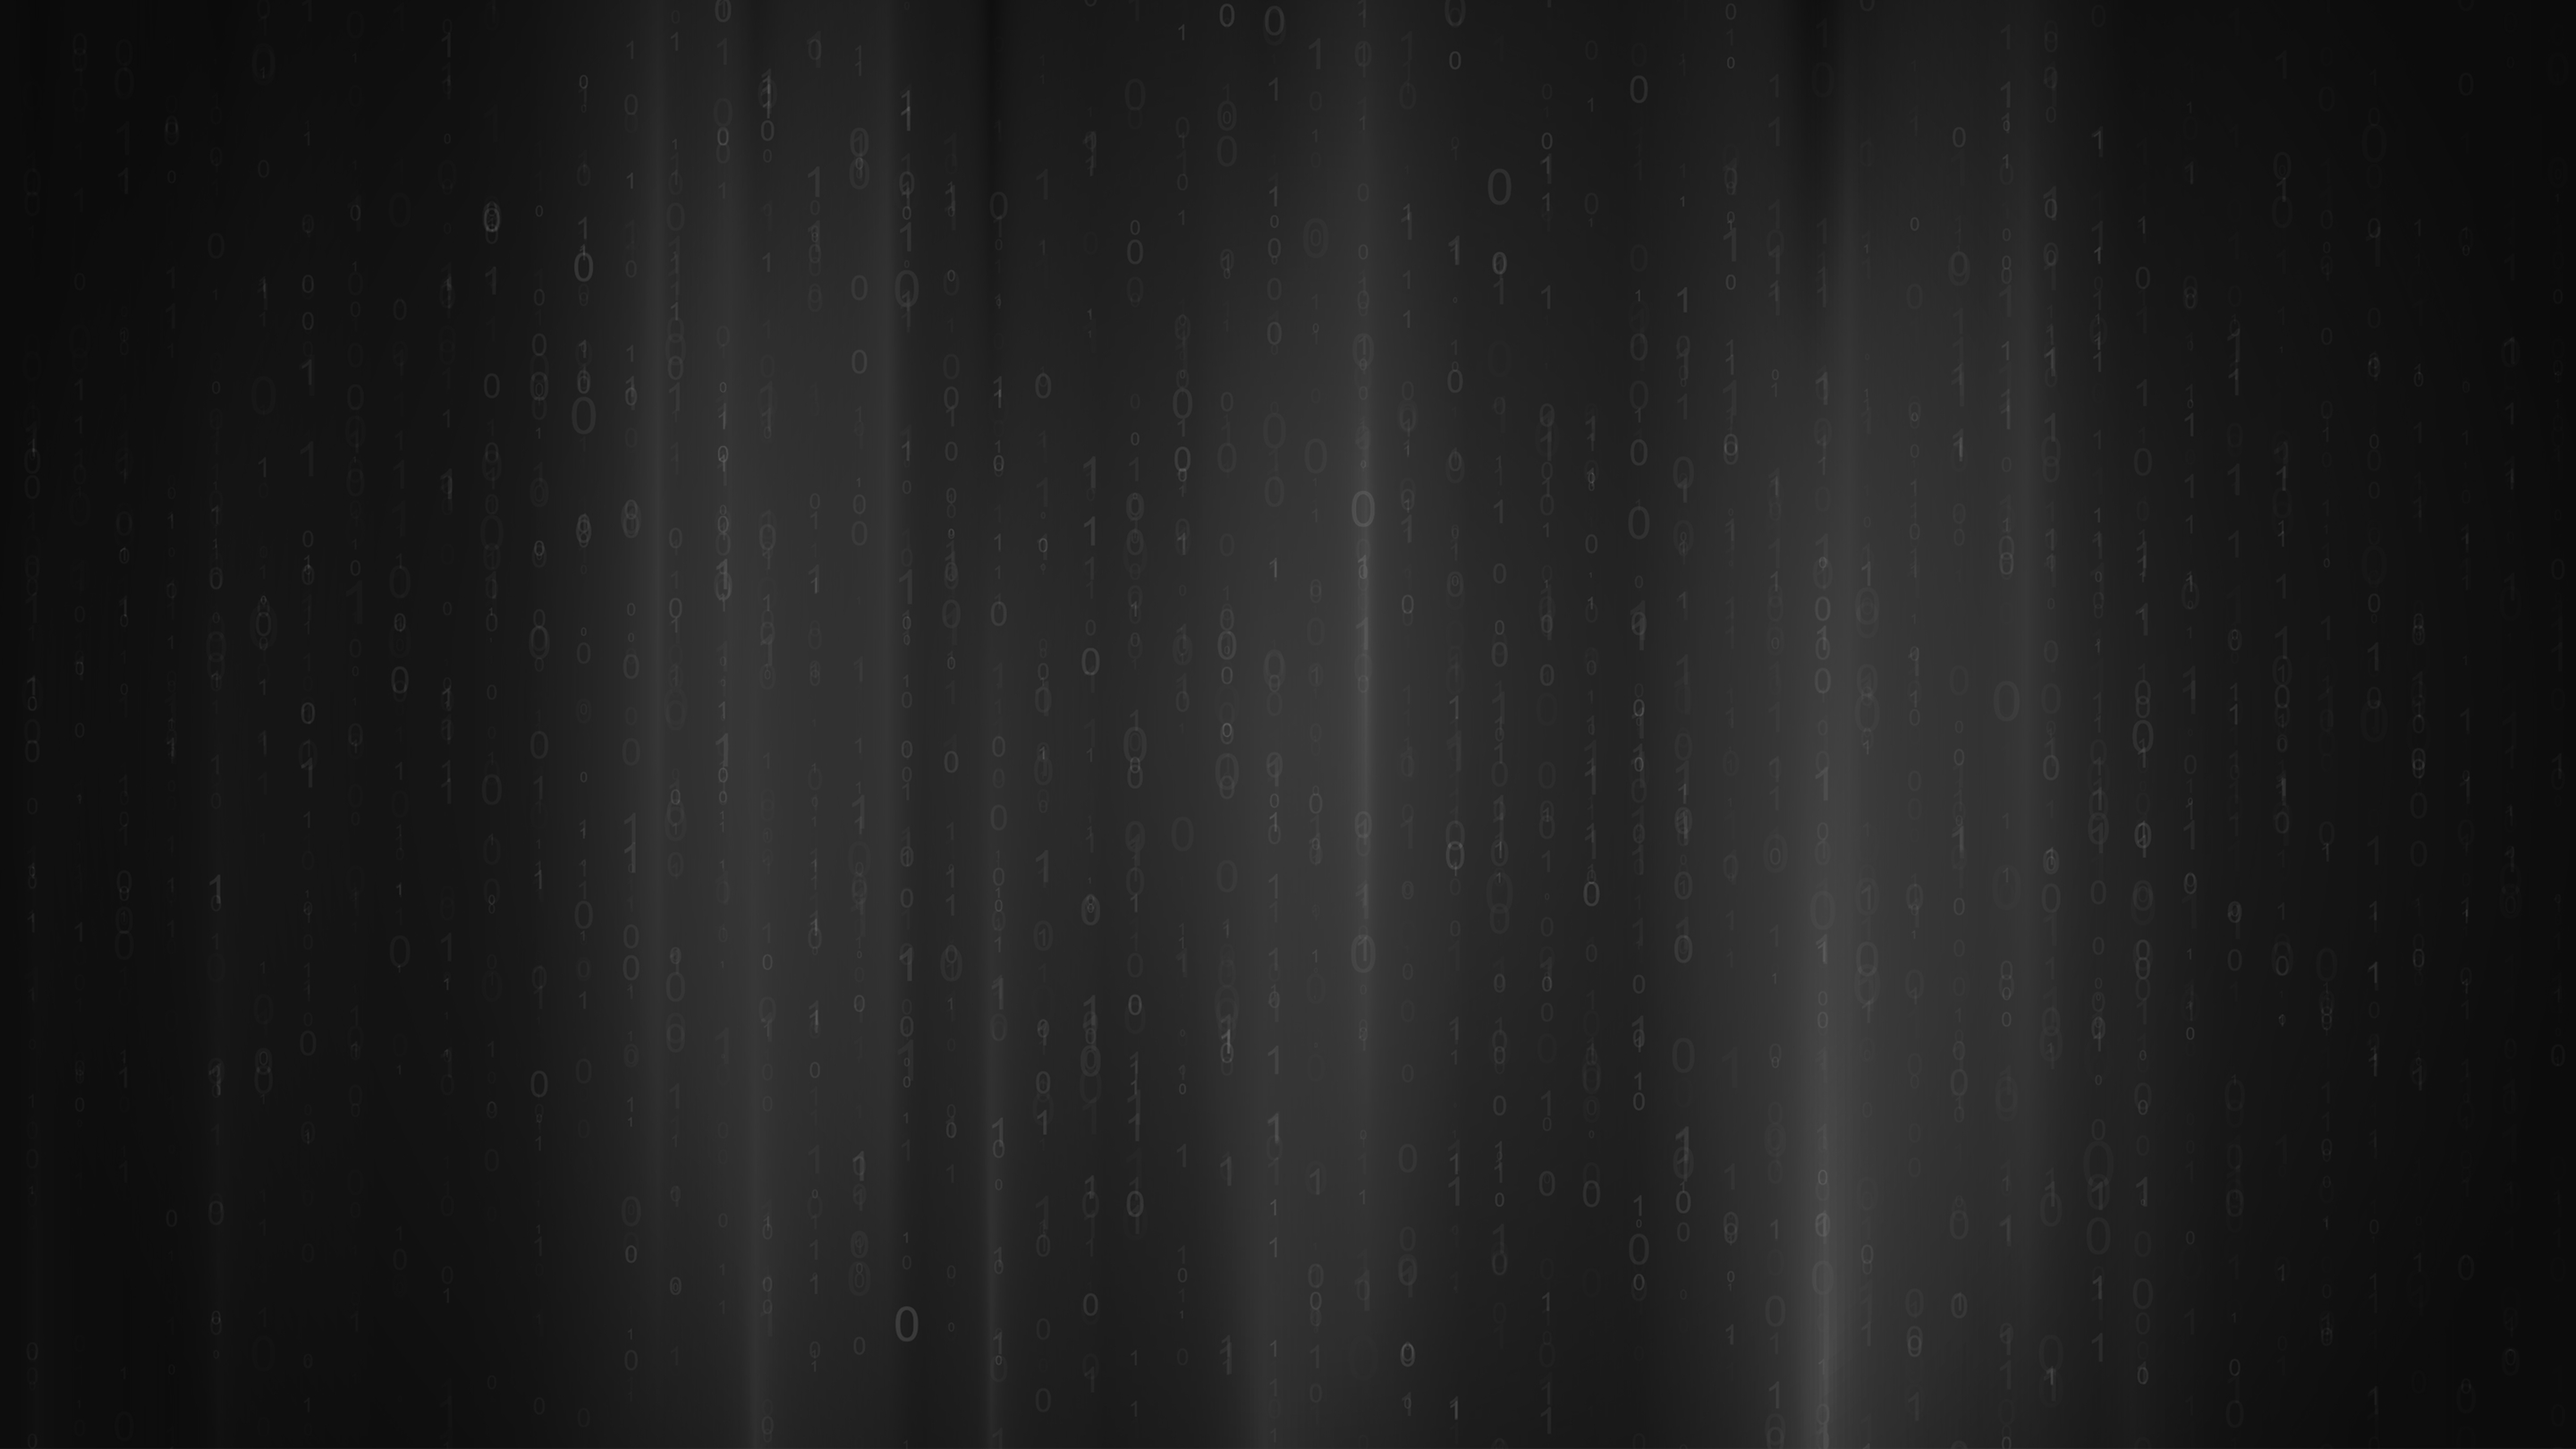
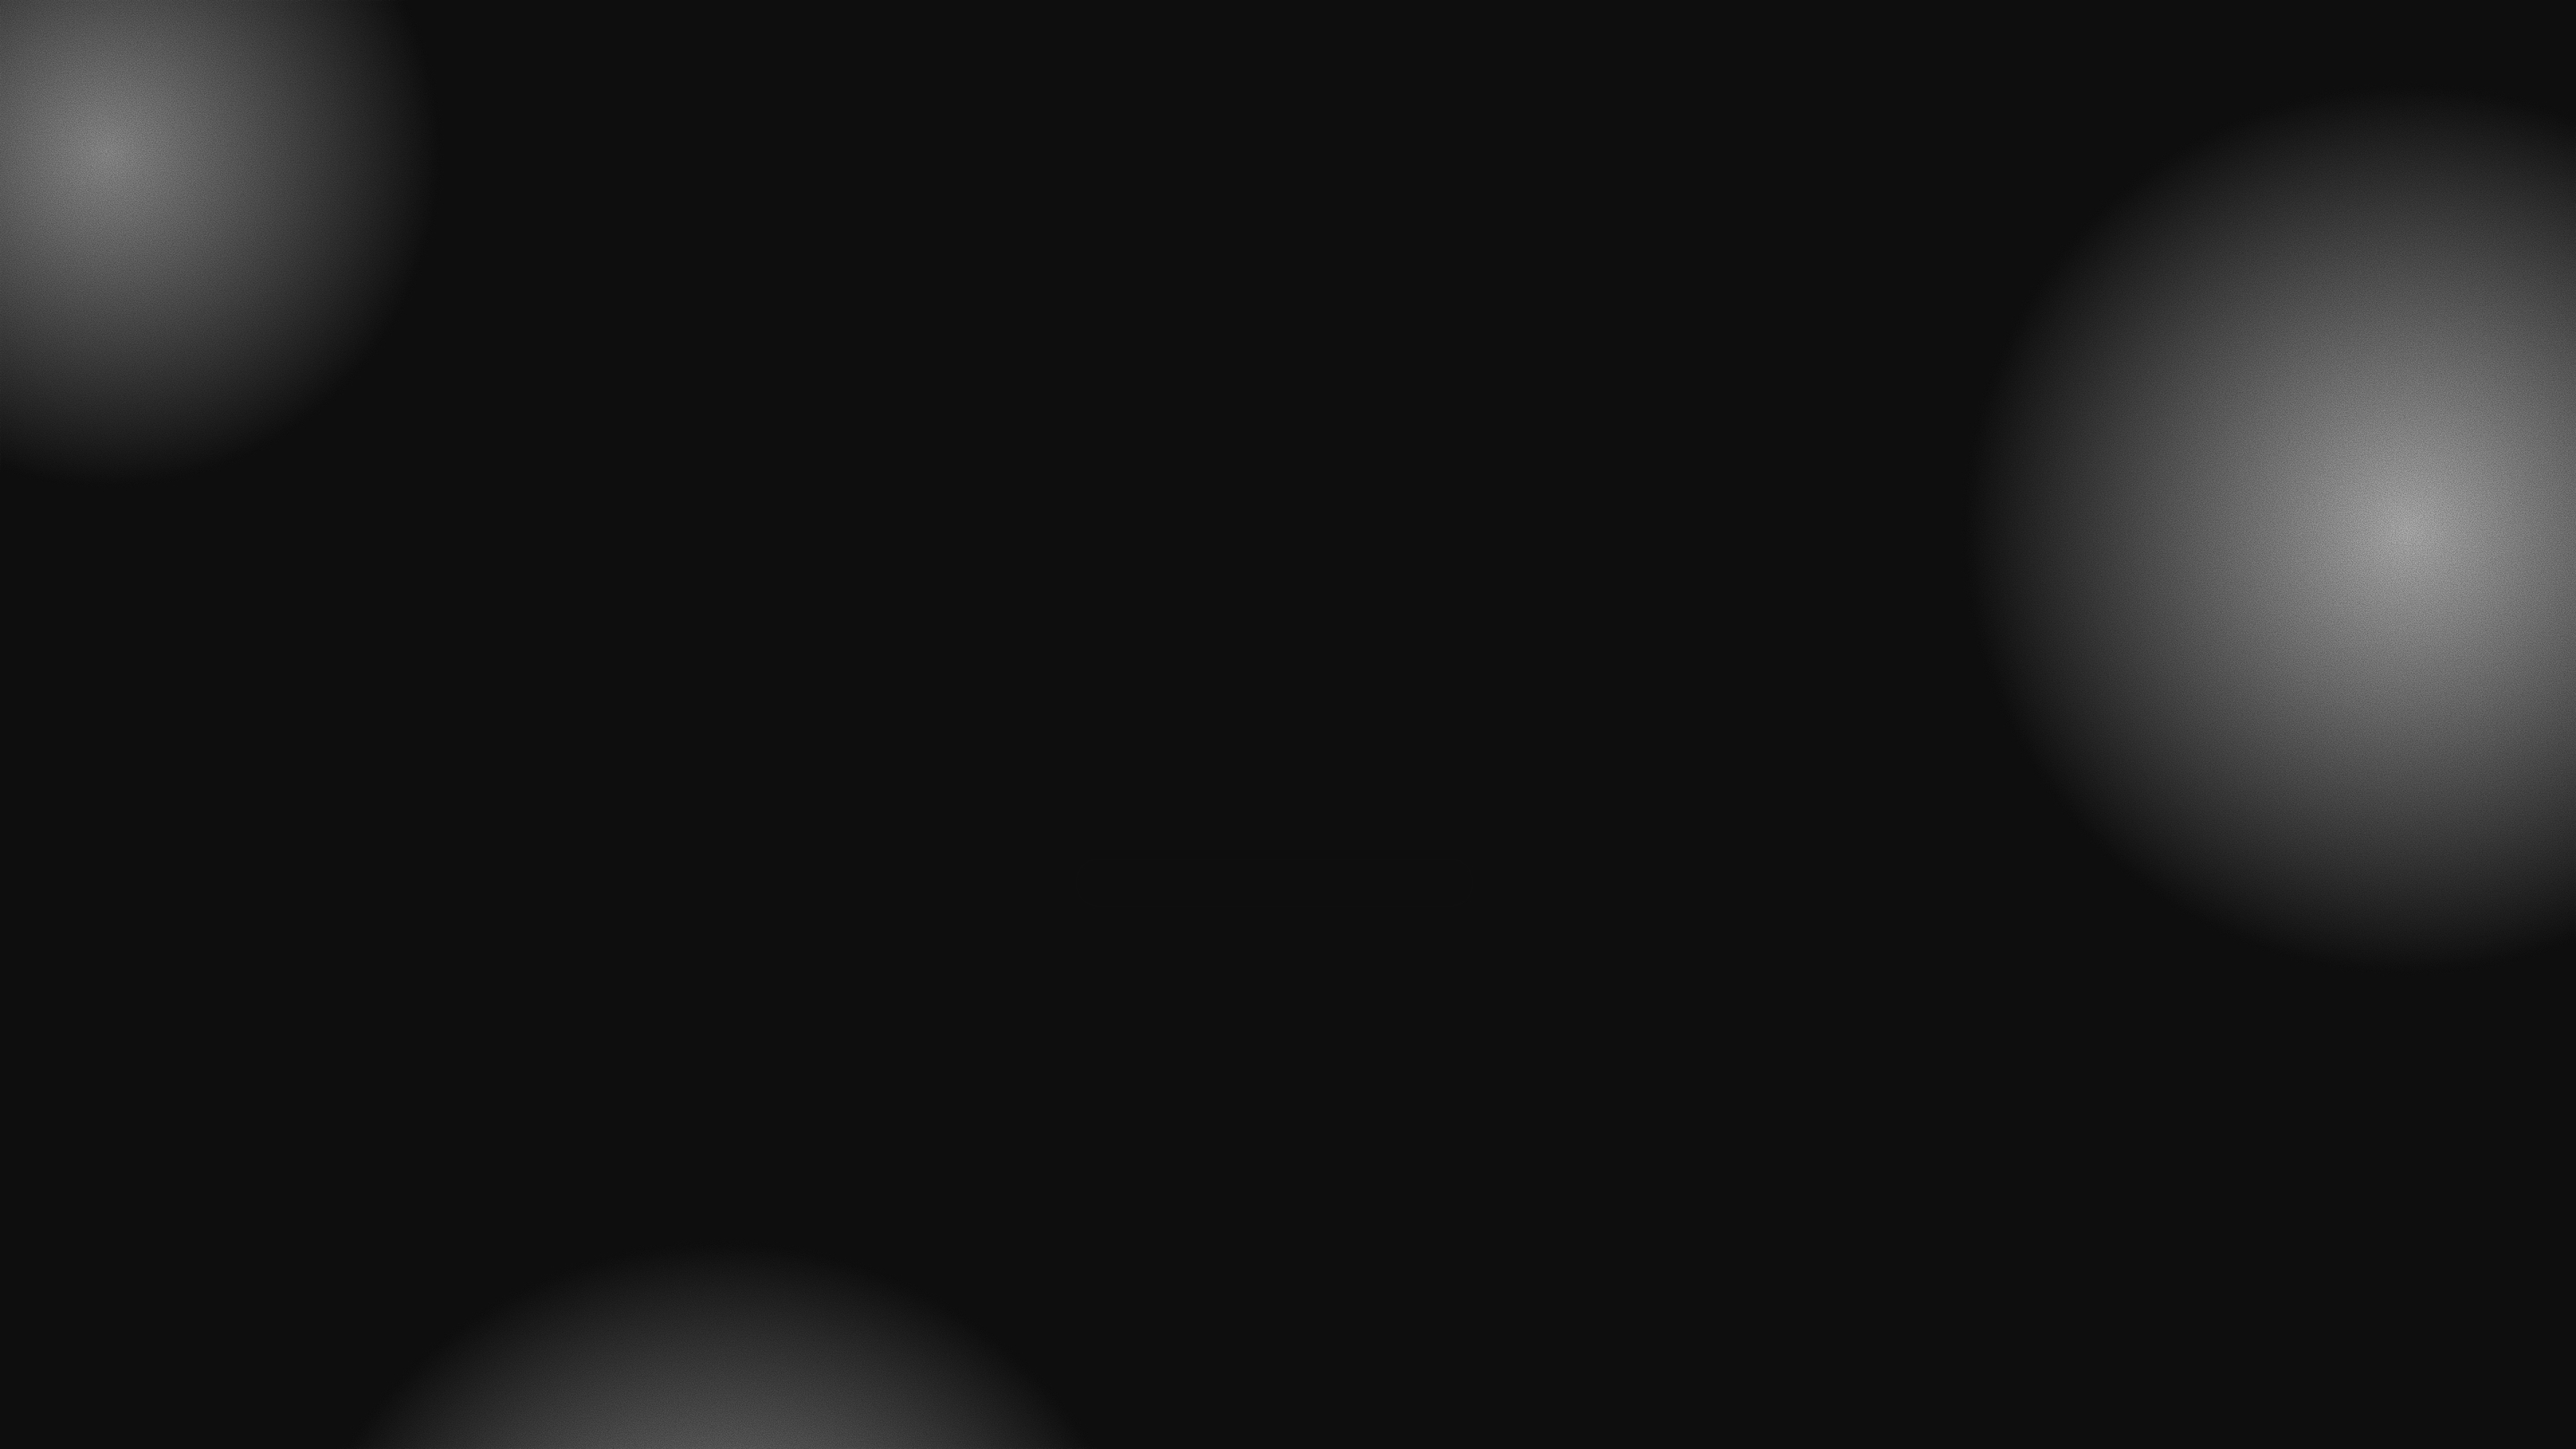
footer bg 교체

diff --git a/src/css/layout.scss b/src/css/layout.scss
@@ -398,7 +398,8 @@
   background-color: $black900;
   color: #fff;
   padding: 50px 0 50px 0;
-  background-color: #ededed;
+  background: url(../../src/assets/imgs/footer_bg.jpg) no-repeat center center /
+    cover;
   &.type-b {
     height: 100%;
     min-height: 100%;
